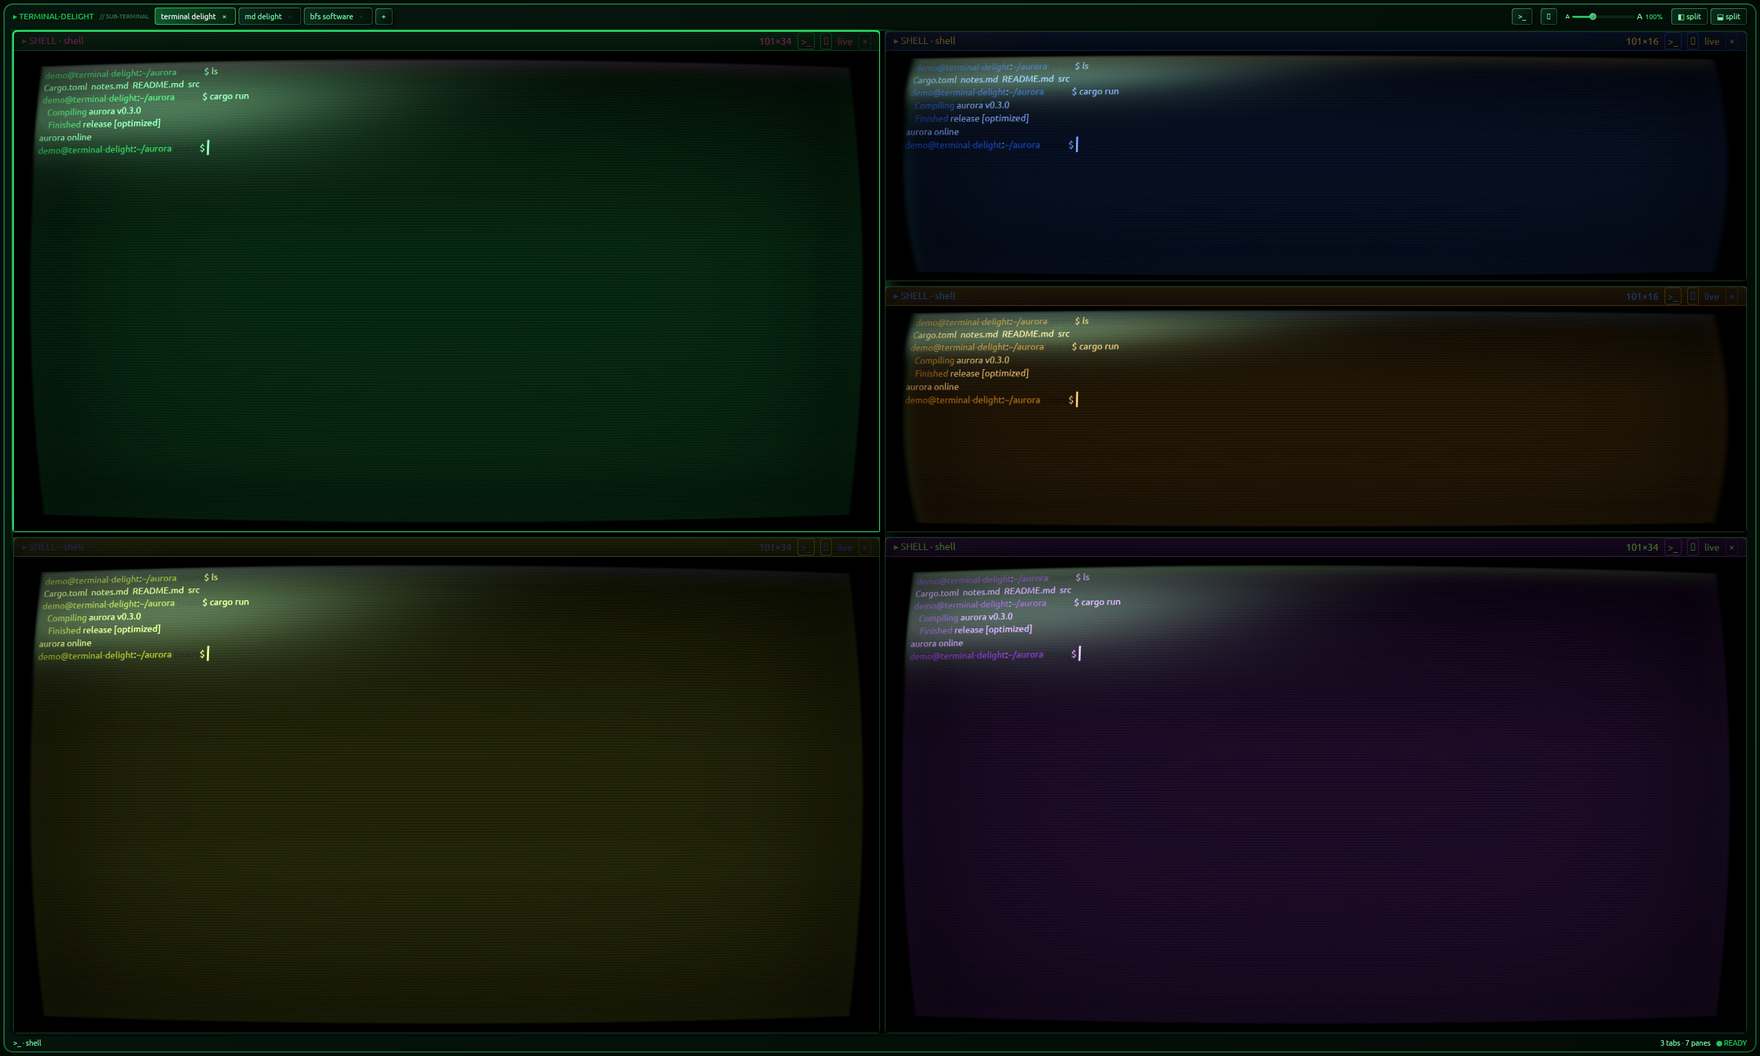
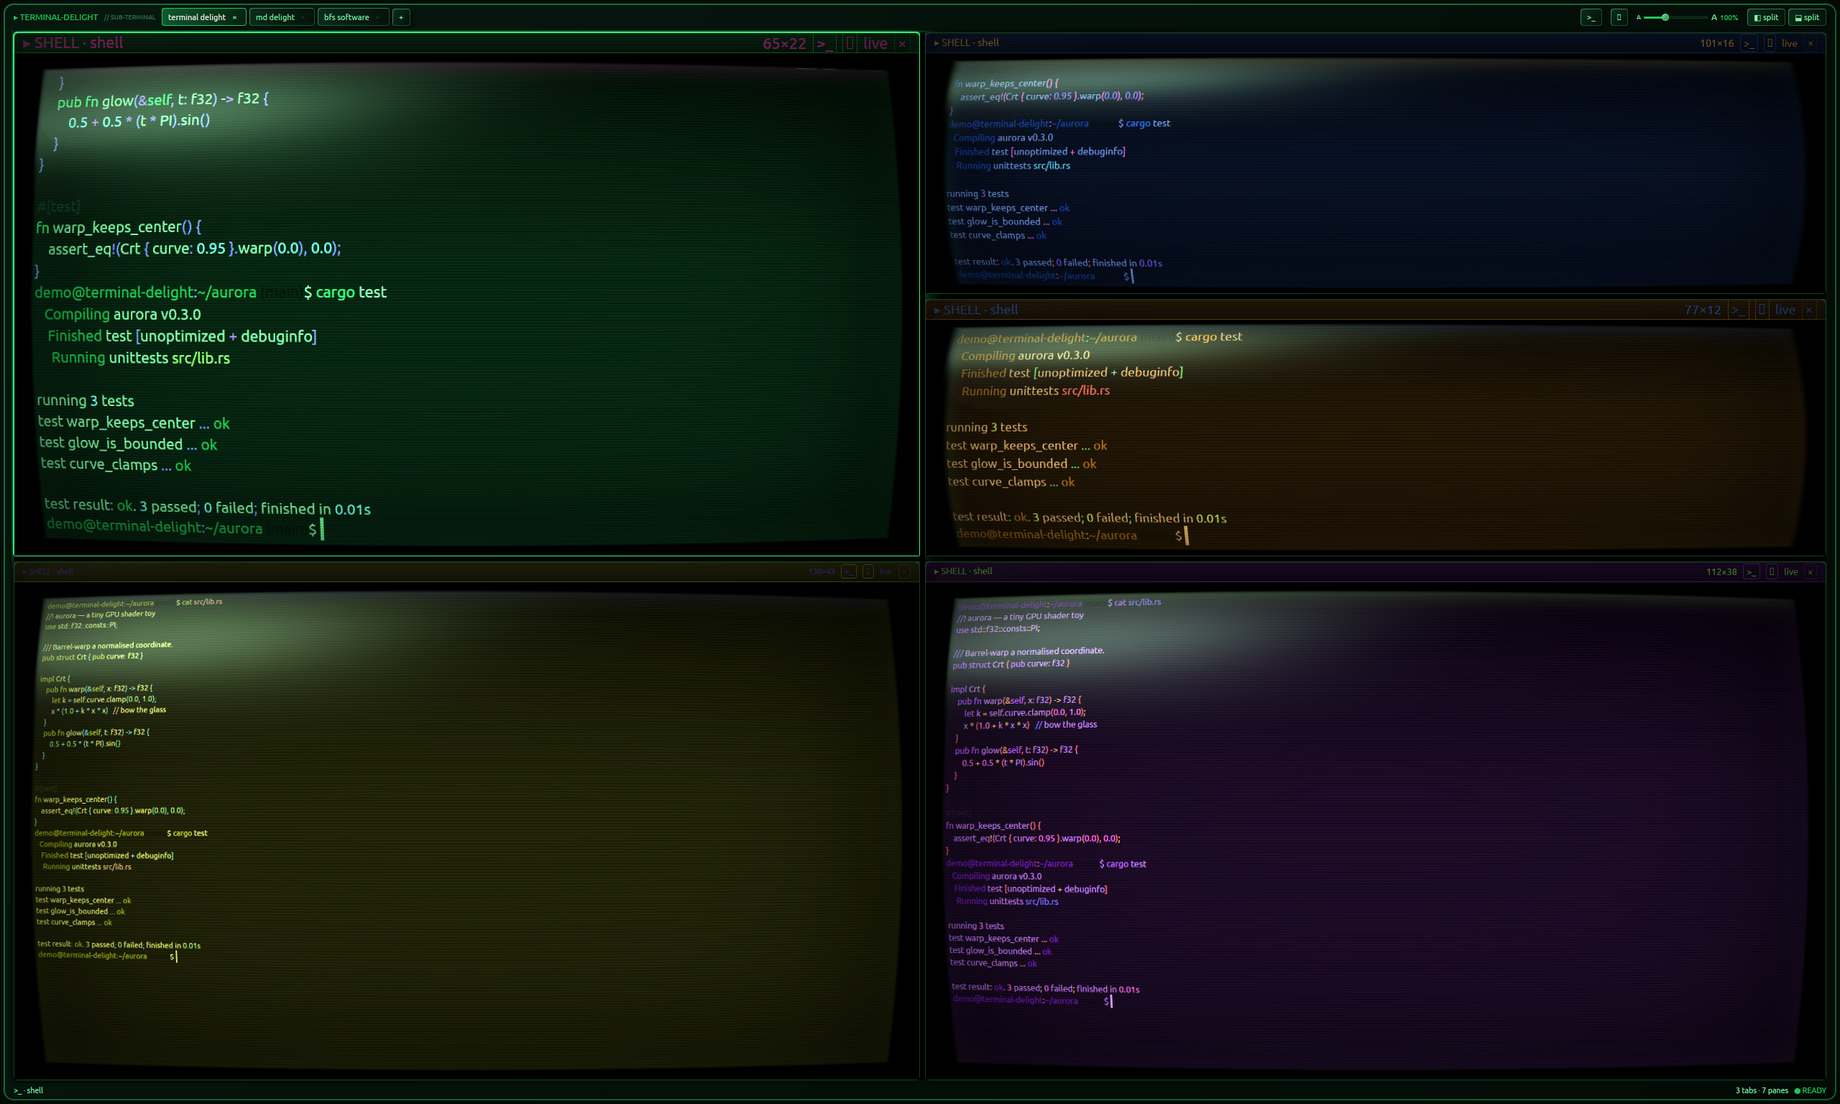
Site: richer hero — syntax-lit code, test runs, dramatic font sizes
Reshot the curved CRT wall per Parker's picks: each pane now shows real code
(cat src/lib.rs, syntax highlighting on) plus a passing 'cargo test' run, at
dramatically different per-pane font sizes (0.78x..1.55x), each tinted a distinct
seed colour. Demo content only.

diff --git a/index.html b/index.html
@@ -196,8 +196,8 @@
            this file — but ONLY of a demo-staged session. -->
       <div class="screen" id="hero-demo">
         <div class="bar"><span class="dot"></span> terminal-delight — a wall of curved phosphor glass</div>
-        <img src="assets/crt-wall.png" alt="terminal-delight filling the screen: five tiled terminal panes, each barrel-warped like its own curved CRT screen and tinted a different colour — green, olive, blue, amber, magenta — with tabs terminal delight / md delight / bfs software" />
-        <div class="playnote">▶ Real capture — every pane is its own barrel-warped CRT screen, themed to taste. A live recording of the warp + theme-switching is coming.</div>
+        <img src="assets/crt-wall.png" alt="terminal-delight filling the screen: five tiled terminal panes, each barrel-warped like its own curved CRT screen, tinted a different colour (green, olive, blue, amber, magenta), syntax-highlighting live Rust code and a passing test run at dramatically different font sizes" />
+        <div class="playnote">▶ Real capture — every pane its own curved CRT: its own colour, its own font size, syntax-lit code and a green test run. A live recording of the warp is coming.</div>
       </div>
     </div>
   </header>
@@ -230,7 +230,7 @@
       <div class="eyebrow">Gallery · click any shot to zoom</div>
       <h2>Real captures — staged with demo content</h2>
       <div class="gallery">
-        <figure><img loading="lazy" src="assets/crt-wall.png" alt="a wall of barrel-warped CRT terminal panes, each a different colour"><figcaption>a wall of curved CRT glass — each pane its own colour</figcaption></figure>
+        <figure><img loading="lazy" src="assets/crt-wall.png" alt="a wall of barrel-warped CRT terminal panes, each a different colour"><figcaption>a wall of curved CRT glass — each pane its own colour, size &amp; syntax-lit code</figcaption></figure>
         <figure><img loading="lazy" src="assets/showcase-themes.png" alt="four panes, four themes, four text sizes"><figcaption>four themes · four sizes · one window</figcaption></figure>
         <figure><img loading="lazy" src="assets/terminal-clean.png" alt="a single full terminal pane"><figcaption>one clean pane, hacker theme</figcaption></figure>
         <figure><img loading="lazy" src="assets/theme-hacker.png" alt="hacker theme at large text size"><figcaption>hacker — exaggerated text size</figcaption></figure>